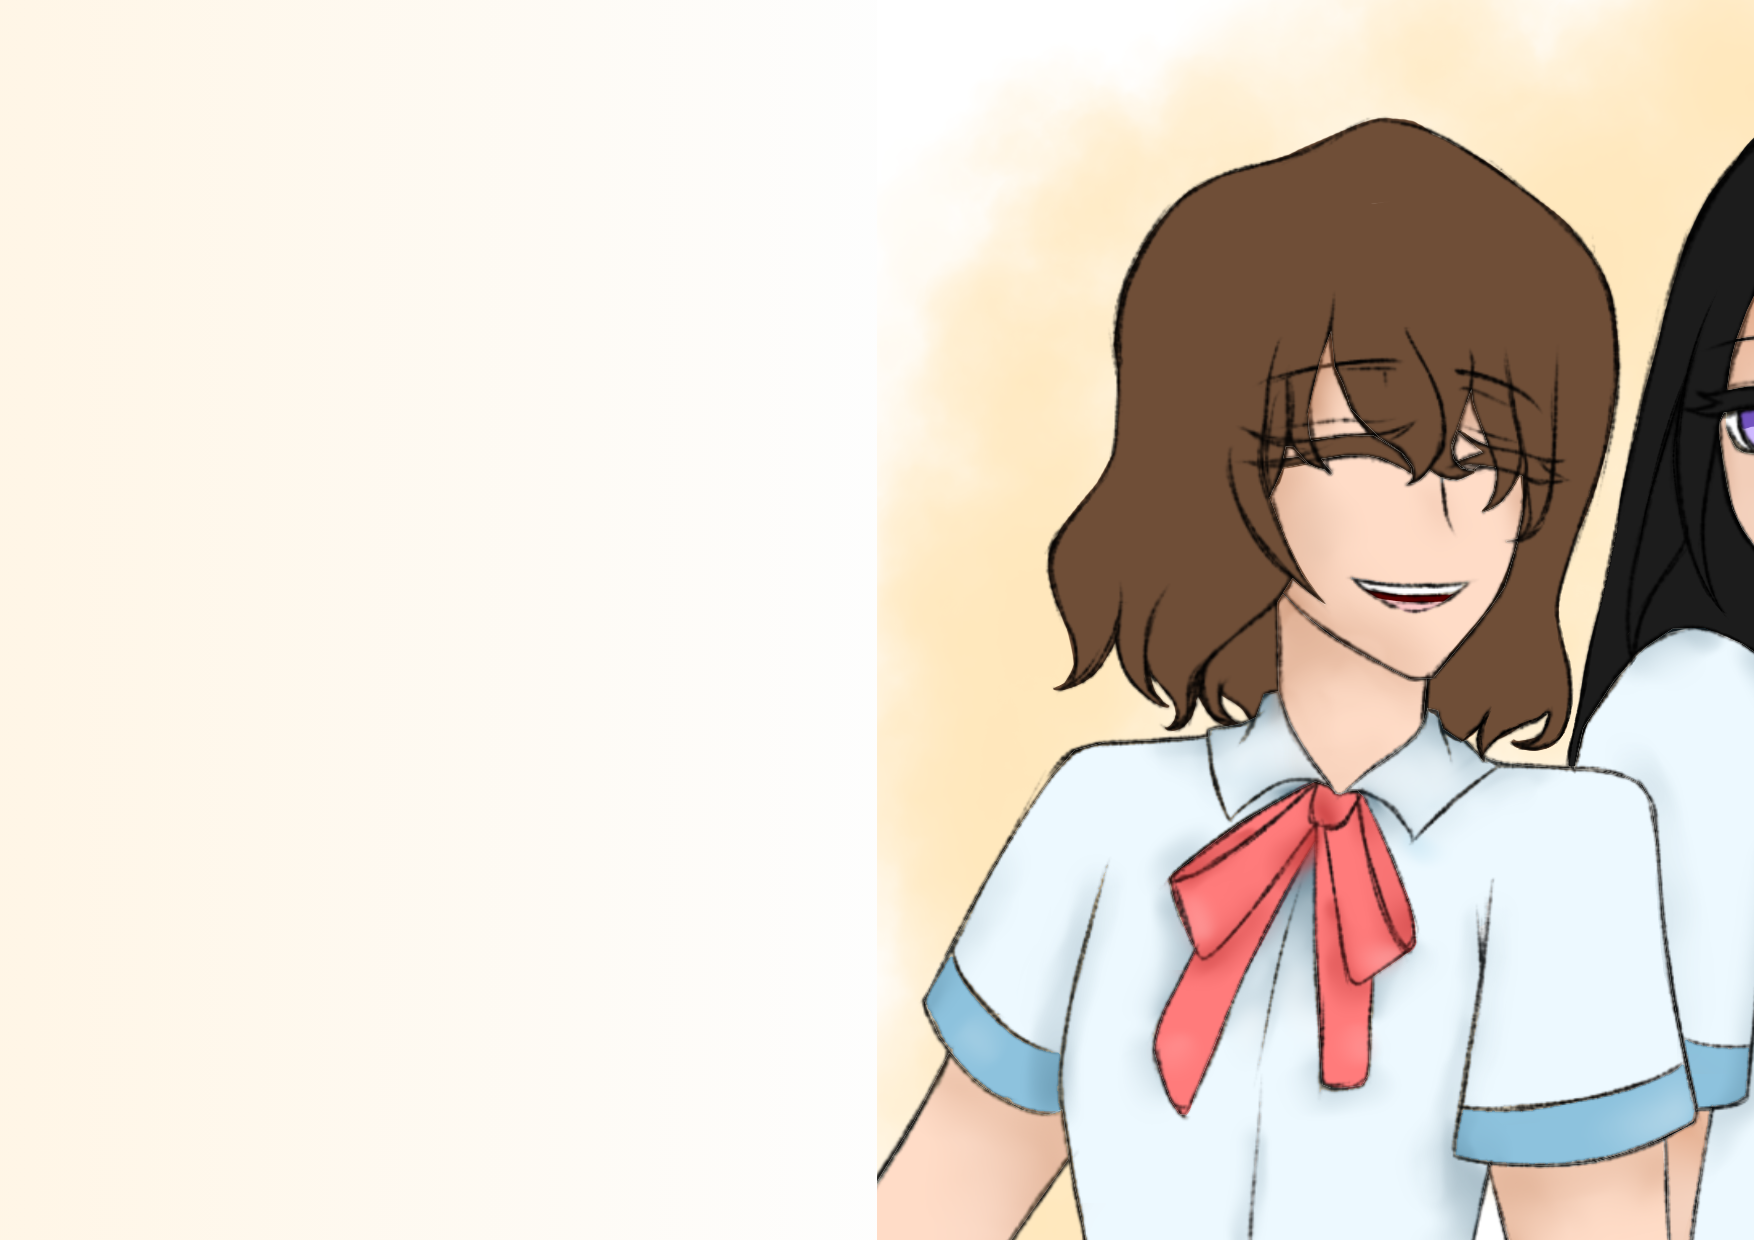
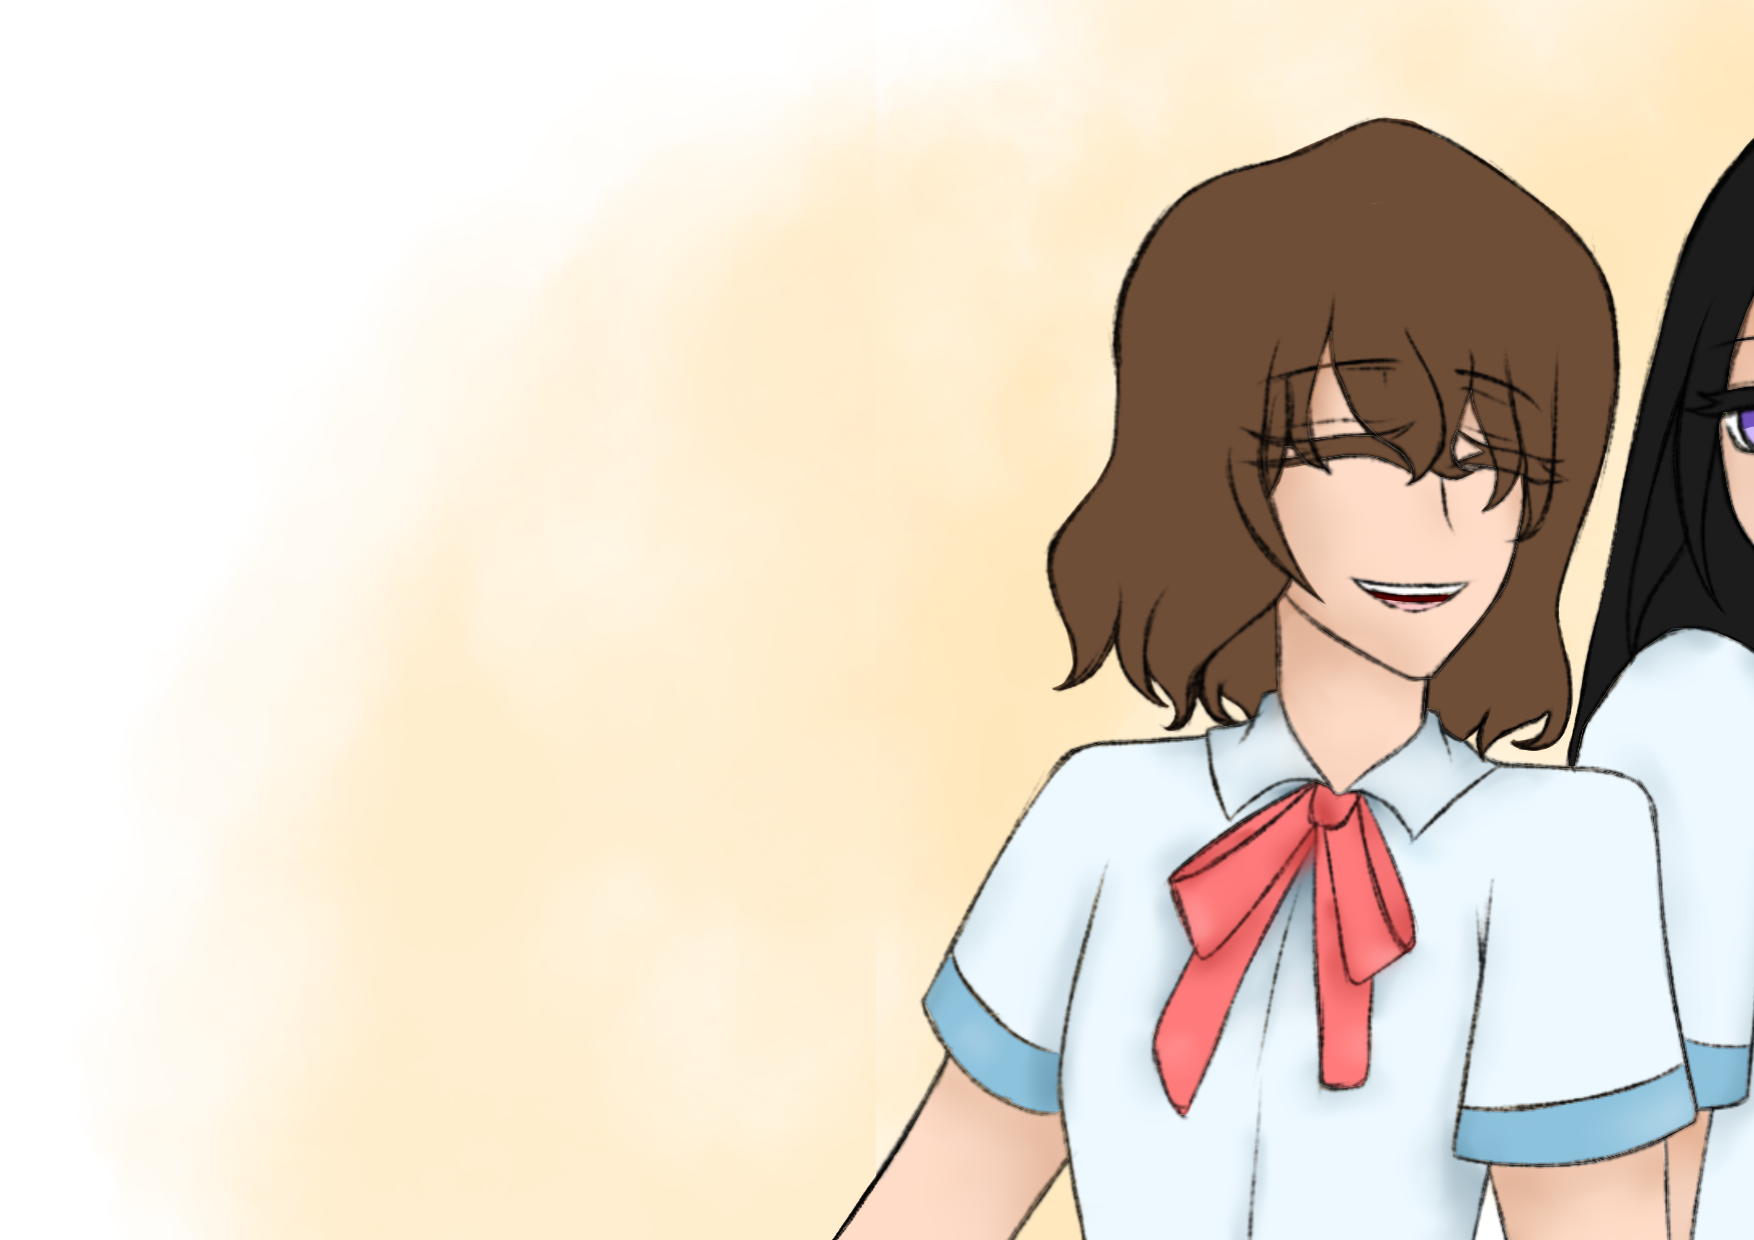
Added the Expanded sketch for Intro 3 and 5

diff --git a/script.js b/script.js
@@ -357,7 +357,7 @@ function changeImage(){
 		pageSrc = "assets/Intro/intro4.png";
 		break;
 	    case 4:
-		pageSrc = "assets/Intro/intro5.1.png";
+		pageSrc = "assets/Intro/intro5.png";
 		break;
 	    case 5:
 		pageSrc = "assets/Intro/intro6.png";
@@ -473,7 +473,7 @@ function getPageImage(prevInc){
 	case 3:
 	    return "assets/Intro/intro4.png";
 	case 4:
-	    return "assets/Intro/intro5.1.png";
+	    return "assets/Intro/intro5.png";
 	case 5:
 	    return "assets/Intro/intro6.png";
 	case 6:
